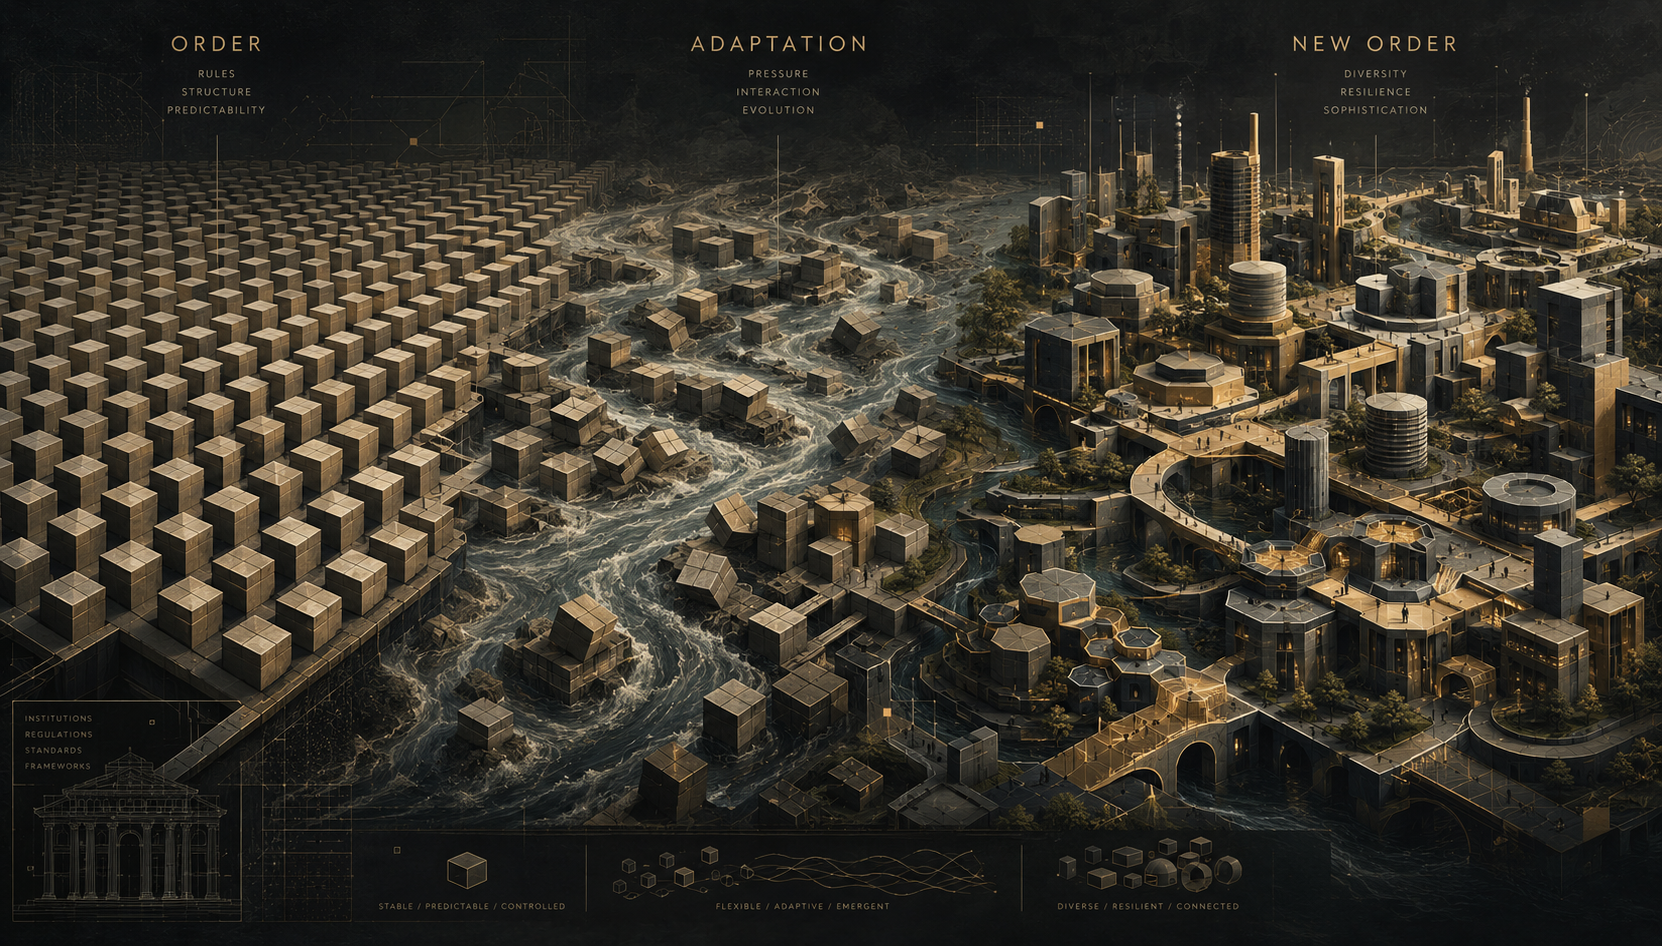
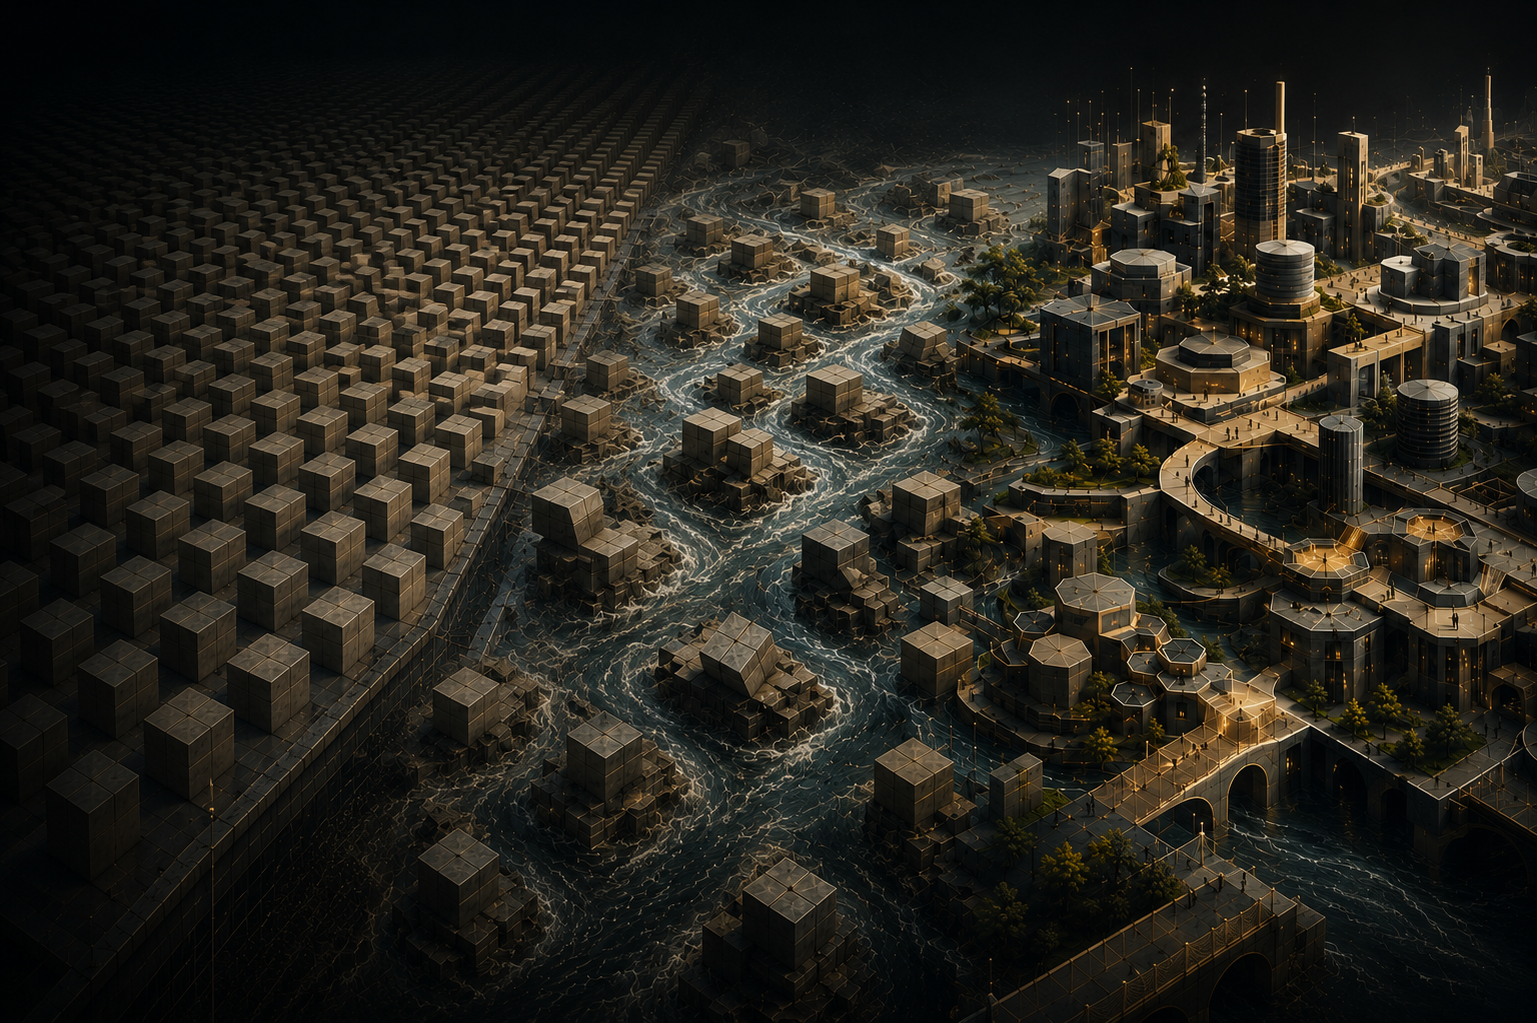
Homepage hero editorial pipeline redesign

diff --git a/components/about/AboutPage.tsx b/components/about/AboutPage.tsx
@@ -5,102 +5,76 @@ const heroImage = '/about/about-hero.png'
 
 function AboutHeroVisual() {
   return (
-    <article className="overflow-hidden rounded-[28px] bg-neutral-950">
-      <div className="relative px-5 py-2 sm:px-6 sm:py-4 lg:min-h-[360px] lg:px-9 lg:py-9">
-        <div className="relative z-30 flex flex-col lg:w-[60%] lg:pr-8">
-          <div className="flex flex-wrap items-center gap-2 sm:gap-3">
-            <div className="text-[0.68rem] uppercase tracking-[0.18em] text-[#86a65b] sm:text-xs">
-              About ShadowMonitor
-            </div>
+    <div className="relative isolate bg-neutral-950 sm:min-h-[500px] sm:overflow-hidden sm:rounded-[30px]">
+      <div className="hidden sm:block absolute inset-0 bg-[radial-gradient(circle_at_14%_18%,rgba(134,166,91,0.08),transparent_26%),radial-gradient(circle_at_80%_22%,rgba(134,166,91,0.06),transparent_20%),linear-gradient(180deg,rgba(255,255,255,0.03),transparent_28%)]" />
 
-            <div className="h-1 w-1 rounded-full bg-neutral-500" />
+      <div className="absolute inset-y-0 right-0 hidden w-[62%] md:block">
+        <img
+          src={heroImage}
+          alt="ShadowMonitor About Hero"
+          className="h-full w-full object-cover object-[68%_50%] brightness-[1.04] contrast-[1.02]"
+        />
+        <div className="absolute inset-0 bg-gradient-to-l from-black/10 via-black/8 to-transparent" />
+      </div>
 
-            <div className="text-[0.68rem] text-neutral-500 sm:text-xs">
-              Independent Investigative Intelligence
-            </div>
+      <div className="hidden sm:block absolute inset-0 bg-[linear-gradient(90deg,rgba(7,10,7,0.98)_0%,rgba(7,10,7,0.95)_22%,rgba(7,10,7,0.72)_40%,rgba(7,10,7,0.22)_68%,rgba(7,10,7,0.02)_100%)]" />
+
+      <div className="relative flex flex-col px-4 py-4 sm:min-h-[500px] sm:px-8 sm:py-8 lg:px-12">
+        <div className="flex flex-wrap items-center gap-3">
+          <div className="text-[10px] uppercase tracking-[0.18em] text-[#86a65b] sm:text-xs">
+            About ShadowMonitor
           </div>
 
-          <div className="mt-4 max-w-3xl sm:mt-5">
-            <h1 className="max-w-3xl text-[clamp(1.55rem,2.1vw,2.55rem)] font-semibold leading-[0.95] tracking-[-0.04em] text-neutral-100 sm:text-[clamp(1.7rem,2.3vw,2.8rem)]">
-              Investigating the Systems Behind the Grey Zone
-            </h1>
+          <div className="h-1 w-1 rounded-full bg-neutral-500" />
 
-            <div className="mt-5 flex flex-wrap gap-2 sm:mt-6">
-  {['iGaming', 'Crypto', 'Offshore Finance', 'Payments', 'Infrastructure'].map(
-    (tag) => (
-      <span
-        key={tag}
-        className="rounded-full bg-white/5 px-3 py-1 text-[10px] uppercase tracking-[0.2em] text-white/55 sm:text-[11px]"
-      >
-        {tag}
-      </span>
-    ),
-  )}
-</div>
-
-<div className="mt-6 max-w-[34rem] sm:mt-7">
-  <div className="rounded-[24px] border border-white/10 bg-white/[0.03] px-5 py-5 sm:px-6 sm:py-6">
-    <blockquote className="space-y-4">
-      <p className="text-[clamp(0.95rem,1.05vw,1.05rem)] leading-relaxed text-neutral-300">
-        We analyse how systems emerge, adapt and evolve under pressure. Our focus is on the
-        structures beneath events — the incentives, regulatory frameworks and hidden dynamics
-        that shape outcomes long before they become visible.
-      </p>
-    </blockquote>
-
-    <p className="mt-4 text-sm font-medium text-neutral-300 sm:mt-5">
-      — Daryn Kellan, Founder &amp; Editor
-    </p>
-  </div>
-</div>
-
-<div className="mt-6 sm:mt-8">
-  <Link
-    href="/"
-    className="inline-flex w-fit items-center gap-2 rounded-full border border-[#86a65b]/40 bg-[#86a65b] px-4 py-2 text-sm font-medium text-neutral-950 transition hover:bg-[#9bc45f] hover:border-[#9bc45f]"
-  >
-    ← Back to ShadowMonitor
-  </Link>
-</div>
+          <div className="text-[10px] text-neutral-500 sm:text-xs">
+            Independent Investigative Intelligence
           </div>
         </div>
 
-        <div className="pointer-events-none absolute inset-y-0 right-0 hidden w-[44%] overflow-hidden rounded-r-[28px] lg:block">
-          <div className="absolute inset-0 bg-[radial-gradient(circle_at_14%_18%,rgba(134,166,91,0.08),transparent_26%),radial-gradient(circle_at_80%_22%,rgba(134,166,91,0.06),transparent_20%),linear-gradient(180deg,rgba(255,255,255,0.03),transparent_28%)]" />
+        <div className="mt-12 max-w-3xl sm:mt-24">
+          <h1 className="max-w-3xl text-[clamp(2rem,8.5vw,3.8rem)] font-semibold leading-[0.96] tracking-[-0.04em] text-neutral-100 sm:text-[clamp(2.6rem,3.6vw,3.8rem)]">
+            Investigating the Systems Behind the Grey Zone
+          </h1>
 
-          <div
-            className="absolute inset-0"
-            style={{
-              WebkitMaskImage:
-                'radial-gradient(ellipse at center, black 54%, transparent 100%)',
-              maskImage: 'radial-gradient(ellipse at center, black 54%, transparent 100%)',
-            }}
-          >
-            <img
-              src={heroImage}
-              alt="ShadowMonitor About Hero"
-              className="absolute inset-0 h-full w-full object-cover"
-              style={{
-                transform: 'translateX(-2%) scale(1)',
-                transformOrigin: 'center center',
-                objectPosition: '92% 46%',
-              }}
-            />
+          <div className="mt-5 flex flex-wrap gap-2 sm:mt-7">
+            {['iGaming', 'Crypto', 'Offshore Finance', 'Payments', 'Infrastructure'].map(
+              (tag) => (
+                <span
+                  key={tag}
+                  className="rounded-full bg-white/5 px-3 py-1 text-[10px] uppercase tracking-[0.2em] text-white/55 sm:text-[11px]"
+                >
+                  {tag}
+                </span>
+              ),
+            )}
           </div>
 
-          <div className="absolute inset-0 bg-gradient-to-l from-black/10 via-black/5 to-transparent" />
+          <div className="mt-6 max-w-2xl sm:mt-7">
+            <div className="rounded-[24px] border border-white/12 bg-black/40 px-5 py-5 sm:px-6 sm:py-6">
+              <blockquote className="space-y-4">
+                <p className="text-[clamp(0.95rem,1.05vw,1.05rem)] leading-relaxed text-neutral-300">
+                  We analyse how systems emerge, adapt and evolve under pressure. Our focus is on the
+                  structures beneath events — the incentives, regulatory frameworks and hidden dynamics
+                  that shape outcomes long before they become visible.
+                </p>
+              </blockquote>
 
-<div className="absolute inset-y-0 left-0 w-[14%] bg-gradient-to-r from-neutral-950 via-neutral-950/85 to-transparent" />
+              <p className="mt-4 text-sm font-medium text-neutral-300 sm:mt-5">
+                — Daryn Kellan, Founder &amp; Editor
+              </p>
+            </div>
+          </div>
 
-<div className="absolute inset-y-0 left-[10%] w-[10%] bg-neutral-950/25 blur-2xl" />
-
-<div className="absolute inset-y-0 right-0 w-[12%] bg-gradient-to-l from-neutral-950/70 to-transparent" />
-
-<div className="absolute inset-x-0 top-0 h-[14%] bg-gradient-to-b from-neutral-950/60 to-transparent" />
-<div className="absolute inset-x-0 bottom-0 h-[16%] bg-gradient-to-t from-neutral-950/60 to-transparent" />
+          <Link
+            href="/"
+            className="mt-10 inline-flex w-fit items-center gap-2 rounded-full border border-[#86a65b]/40 bg-[#86a65b] px-4 py-2 text-sm font-medium text-neutral-950 transition hover:border-[#9bc45f] hover:bg-[#9bc45f] sm:mt-12"
+          >
+            ← Back to ShadowMonitor
+          </Link>
         </div>
       </div>
-    </article>
+    </div>
   )
 }
 

diff --git a/components/home/HomeLayout.tsx b/components/home/HomeLayout.tsx
@@ -138,31 +138,56 @@ function HomepageHeroBanner() {
         </div>
 
         {/* RIGHT PANEL */}
-        <aside className="col-span-12 lg:col-span-3">
-          <div className="rounded-[24px] bg-[rgba(5,7,5,0.82)] p-3.5 backdrop-blur-sm sm:p-4">
-            <div className="text-[1.2rem] font-semibold tracking-[-0.05em] text-[#9fbe63] sm:text-[1.35rem]">
-              JUNE 2026
-            </div>
+{/* RIGHT PANEL */}
+<aside className="col-span-12 lg:col-span-3">
+  <div className="rounded-[24px] bg-[rgba(5,7,5,0.82)] p-3.5 backdrop-blur-sm sm:p-4">
+    <div className="text-[1.2rem] font-semibold tracking-[-0.05em] text-[#9fbe63] sm:text-[1.35rem]">
+      JULY 2026
+    </div>
 
-            <div className="mt-4 text-[0.62rem] uppercase tracking-[0.28em] text-[#9ca19c] sm:text-[0.68rem]">
-              Jurisdictions in focus
-            </div>
+    <div className="mt-3 text-[0.62rem] uppercase tracking-[0.28em] text-[#9ca19c] sm:text-[0.68rem]">
+      IN PROGRESS
+    </div>
 
-            <div className="mt-4 grid grid-cols-2 gap-x-5 gap-y-4 sm:mt-5 sm:gap-x-6 sm:gap-y-4">
-              {jurisdictions.map(([code, label]) => (
-                <div key={code}>
-                  <div className="text-[1.45rem] font-medium tracking-[-0.04em] text-white sm:text-[1.55rem]">
-                    {code}
-                  </div>
+    <div className="mt-4 space-y-3.5">
+      <div className="grid grid-cols-[2.0rem_minmax(0,1fr)] gap-x-1">
+        <div className="pt-[2px] text-[10px] font-medium uppercase tracking-[0.16em] text-[#86a65b]/80 whitespace-nowrap">
+          JUL
+        </div>
+        <div className="min-w-0 text-[0.83rem] font-medium leading-[1.28] text-neutral-200">
+          World Cup 2026: How Spot-Fixing Works – From One Yellow Card to a Global Syndicate
+        </div>
+      </div>
 
-                  <div className="mt-1 text-[0.75rem] leading-snug text-[#7d837d] sm:text-[0.8rem] sm:leading-relaxed">
-                    {label}
-                  </div>
-                </div>
-              ))}
-            </div>
-          </div>
-        </aside>
+      <div className="grid grid-cols-[2.0rem_minmax(0,1fr)] gap-x-1">
+        <div className="pt-[2px] text-[10px] font-medium uppercase tracking-[0.16em] text-[#86a65b]/80 whitespace-nowrap">
+          JUL
+        </div>
+        <div className="min-w-0 text-[0.83rem] font-medium leading-[1.28] text-neutral-200">
+          Grey Zone Tax: How Patent Trolls Prey on iGaming, Crypto, and Whatever Comes Next
+        </div>
+      </div>
+
+      <div className="grid grid-cols-[2.0rem_minmax(0,1fr)] gap-x-1">
+        <div className="pt-[2px] text-[10px] font-medium uppercase tracking-[0.16em] text-[#86a65b]/80 whitespace-nowrap">
+          AUG
+        </div>
+        <div className="min-w-0 text-[0.83rem] font-medium leading-[1.28] text-neutral-200">
+          How Illegal Betting Feeds the Shadow Crypto Economy
+        </div>
+      </div>
+
+      <div className="grid grid-cols-[2.0rem_minmax(0,1fr)] gap-x-1">
+        <div className="pt-[2px] text-[10px] font-medium uppercase tracking-[0.16em] text-[#86a65b]/80 whitespace-nowrap">
+          AUG
+        </div>
+        <div className="min-w-0 text-[0.83rem] font-medium leading-[1.28] text-neutral-200">
+          The Reform Nobody Planned: The Rise and Fall of Austria's Online Gambling Monopoly
+        </div>
+      </div>
+    </div>
+  </div>
+</aside>
       </div>
     </section>
   )

diff --git a/components/article/ArticleLayout.tsx b/components/article/ArticleLayout.tsx
@@ -251,7 +251,7 @@ function InvestigationHeroVisual({ article }: ArticleLayoutProps) {
 
           <Link
             href="/"
-            className="mt-10 inline-flex w-fit items-center gap-2 rounded-full border border-white/15 bg-white/10 px-4 py-2 text-sm font-medium text-neutral-100 backdrop-blur-sm transition hover:border-white/30 hover:bg-white/15 sm:mt-12"
+            className="mt-10 inline-flex w-fit items-center gap-2 rounded-full border border-[#86a65b]/40 bg-[#86a65b] px-4 py-2 text-sm font-medium text-neutral-950 transition hover:border-[#9bc45f] hover:bg-[#9bc45f] sm:mt-12"
           >
             ← Back to ShadowMonitor
           </Link>